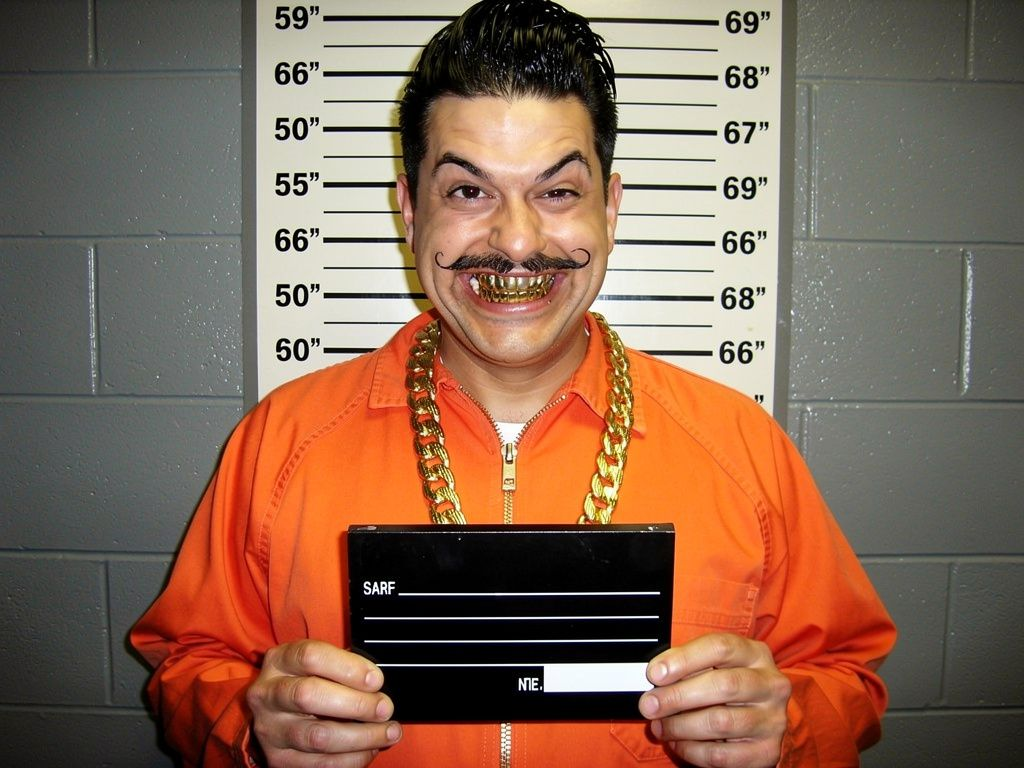
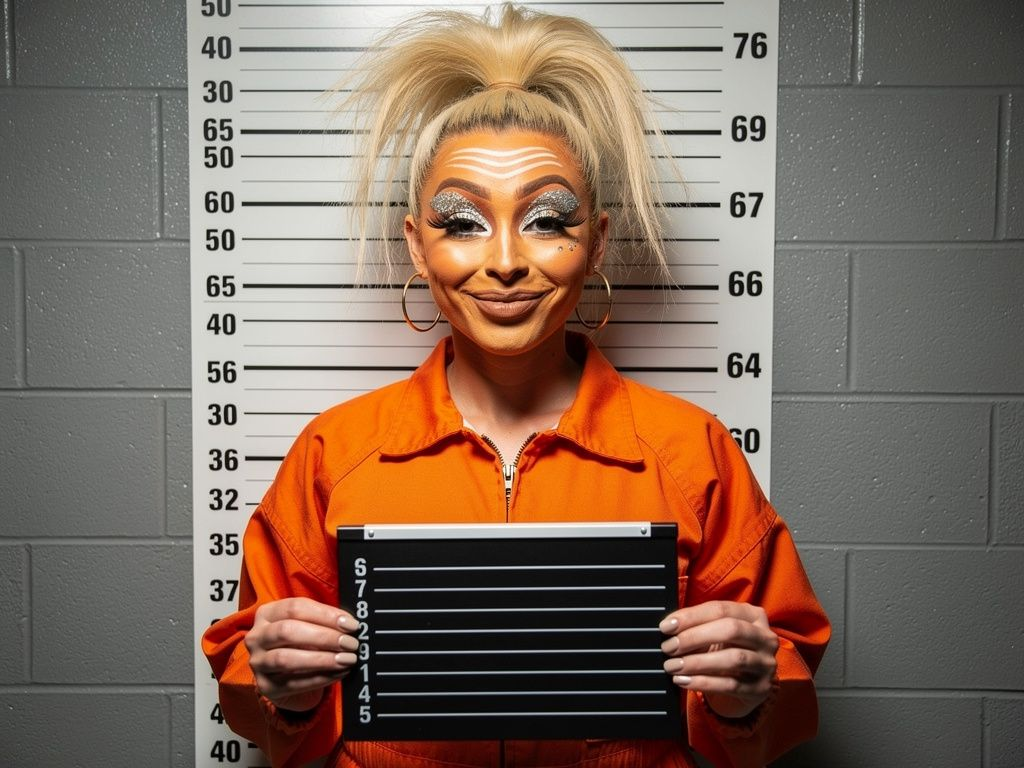
Make mascot lineup all-female and drop photo uploads from generator
Walk of Hoes no longer accepts user photo uploads at all -- it now
shuffles through the AI-generated mascot pool with randomized charges,
so every image on the site is our own AI art, never a real person's
photo. Also swapped the one male mascot for a female one and added two
more, growing the Most Wanted gallery to 7.

Claude-Session: https://claude.ai/code/session_01P1RexwJry31zfTJT4hxdEK

diff --git a/src/components/MugshotGenerator.tsx b/src/components/MugshotGenerator.tsx
@@ -2,6 +2,7 @@
 
 import { useCallback, useEffect, useRef, useState } from "react";
 import { randomCaseNumber, randomCharges } from "@/data/charges";
+import { randomMascot } from "@/data/mascots";
 
 const CANVAS_W = 900;
 const CANVAS_H = 1125;
@@ -34,8 +35,8 @@ function wrapText(
 
 export default function MugshotGenerator() {
   const canvasRef = useRef<HTMLCanvasElement>(null);
-  const fileInputRef = useRef<HTMLInputElement>(null);
   const imgRef = useRef<HTMLImageElement | null>(null);
+  const [mascotSrc, setMascotSrc] = useState<string>(() => randomMascot());
   const [charges, setCharges] = useState<string[]>(() => randomCharges());
   const [caseNumber, setCaseNumber] = useState(() => randomCaseNumber());
   const [ready, setReady] = useState(false);
@@ -60,23 +61,18 @@ export default function MugshotGenerator() {
       const dh = img.height * scale;
       const dx = (CANVAS_W - dw) / 2;
       const dy = (photoH - dh) / 2;
-      ctx.save();
-      ctx.filter = "grayscale(0.35) contrast(1.15) saturate(1.15) brightness(1.05)";
       ctx.drawImage(img, dx, dy, dw, dh);
-      ctx.restore();
 
-      // Flash / duotone tint
-      ctx.fillStyle = "rgba(249, 115, 22, 0.12)";
+      // Flash tint
+      ctx.fillStyle = "rgba(249, 115, 22, 0.08)";
       ctx.fillRect(0, 0, CANVAS_W, photoH);
-      ctx.fillStyle = "rgba(0, 0, 0, 0.15)";
-      ctx.fillRect(0, 0, CANVAS_W, photoH * 0.25);
     } else {
       ctx.fillStyle = "#27272a";
       ctx.fillRect(0, 0, CANVAS_W, photoH);
       ctx.fillStyle = "#52525b";
       ctx.font = "600 28px sans-serif";
       ctx.textAlign = "center";
-      ctx.fillText("Upload a photo to begin", CANVAS_W / 2, photoH / 2);
+      ctx.fillText("Loading mascot...", CANVAS_W / 2, photoH / 2);
     }
 
     // Height-chart ticks
@@ -146,23 +142,22 @@ export default function MugshotGenerator() {
   }, [charges, caseNumber]);
 
   useEffect(() => {
-    draw();
-  }, [draw]);
-
-  const onFile = (file: File | null | undefined) => {
-    if (!file) return;
-    const url = URL.createObjectURL(file);
     const img = new window.Image();
     img.onload = () => {
       imgRef.current = img;
       setReady(true);
       draw();
-      URL.revokeObjectURL(url);
     };
-    img.src = url;
-  };
+    img.src = mascotSrc;
+    // eslint-disable-next-line react-hooks/exhaustive-deps
+  }, [mascotSrc]);
+
+  useEffect(() => {
+    draw();
+  }, [draw]);
 
   const reroll = () => {
+    setMascotSrc((current) => randomMascot(current));
     setCharges(randomCharges());
     setCaseNumber(randomCaseNumber());
   };
@@ -187,26 +182,12 @@ export default function MugshotGenerator() {
         />
       </div>
 
-      <input
-        ref={fileInputRef}
-        type="file"
-        accept="image/*"
-        className="hidden"
-        onChange={(e) => onFile(e.target.files?.[0])}
-      />
-
       <div className="flex flex-wrap items-center justify-center gap-3">
         <button
-          onClick={() => fileInputRef.current?.click()}
+          onClick={reroll}
           className="rounded-full bg-pink-500 px-6 py-3 text-sm font-bold text-black transition hover:bg-pink-400"
         >
-          {ready ? "Use a Different Photo" : "Upload Your Photo"}
-        </button>
-        <button
-          onClick={reroll}
-          className="rounded-full border border-white/15 px-6 py-3 text-sm font-bold text-white transition hover:bg-white/5"
-        >
-          Reroll Charges
+          Get Booked Again
         </button>
         <button
           onClick={download}
@@ -218,10 +199,9 @@ export default function MugshotGenerator() {
       </div>
 
       <p className="max-w-md text-center text-xs text-neutral-500">
-        Everything happens in your browser — your photo is never uploaded or
-        sent anywhere. Only upload photos of yourself, and keep it 18+
-        appropriate. This is a joke generator, not a real legal document
-        (obviously).
+        Every mascot on this site is 100% AI-generated art — no real people,
+        no photo uploads. Generated entirely in your browser. Satire only,
+        18+.
       </p>
     </div>
   );

diff --git a/src/app/walk-of-hoes/page.tsx b/src/app/walk-of-hoes/page.tsx
@@ -5,7 +5,7 @@ import MugshotGenerator from "@/components/MugshotGenerator";
 export const metadata: Metadata = {
   title: "Walk of Hoes — $NOHOES Booking Generator",
   description:
-    "Turn your photo into a satirical $NOHOES booking card. 18+, all in your browser, nothing ever uploaded.",
+    "Generate a satirical $NOHOES booking card from our AI mascot lineup. 18+, all in your browser, no real people, no uploads.",
 };
 
 export default function WalkOfHoes() {
@@ -28,12 +28,12 @@ export default function WalkOfHoes() {
           Walk of Hoes
         </span>
         <h1 className="mt-4 text-3xl font-black tracking-tight sm:text-5xl">
-          Get Yourself Booked
+          Roll the Booking Sheet
         </h1>
         <p className="mx-auto mt-3 max-w-lg text-balance text-neutral-400">
-          Upload a photo and get slapped with degenerate charges,
-          $NOHOES-style. 100% client-side — your photo never leaves your
-          device. 18+, self-uploads only, keep it a joke.
+          Pull a random $NOHOES mascot and slap it with degenerate charges.
+          100% AI-generated art, 100% client-side — no real people, no
+          photo uploads. 18+, keep it a joke.
         </p>
 
         <div className="mt-10">
@@ -44,9 +44,9 @@ export default function WalkOfHoes() {
       <footer className="border-t border-white/10 px-6 py-8">
         <div className="mx-auto flex w-full max-w-5xl flex-col items-center gap-3 text-center text-xs text-neutral-500">
           <p>
-            18+ only. Satirical, self-serve meme generator. Only upload
-            photos of yourself. Nothing is stored, uploaded, or shared by
-            this site.
+            18+ only. Satirical, AI-generated meme generator — no real
+            people, no photo uploads. Nothing is stored or shared by this
+            site.
           </p>
         </div>
       </footer>

diff --git a/src/app/page.tsx b/src/app/page.tsx
@@ -19,6 +19,8 @@ const MOST_WANTED = [
   { src: "/mascots/mascot-3.jpg", charge: "Conspiracy to Pump and Dump" },
   { src: "/mascots/mascot-4.jpg", charge: "Excessive Bag Holding" },
   { src: "/mascots/mascot-5.jpg", charge: "Simping in the First Degree" },
+  { src: "/mascots/mascot-6.jpg", charge: "Disturbing the Charts" },
+  { src: "/mascots/mascot-7.jpg", charge: "Grand Theft of Your Attention" },
 ];
 
 export default function Home() {

diff --git a/src/data/mascots.ts b/src/data/mascots.ts
@@ -1,0 +1,14 @@
+export const MASCOTS = [
+  "/mascot.jpg",
+  "/mascots/mascot-2.jpg",
+  "/mascots/mascot-3.jpg",
+  "/mascots/mascot-4.jpg",
+  "/mascots/mascot-5.jpg",
+  "/mascots/mascot-6.jpg",
+  "/mascots/mascot-7.jpg",
+] as const;
+
+export function randomMascot(exclude?: string): string {
+  const pool = MASCOTS.filter((m) => m !== exclude);
+  return pool[Math.floor(Math.random() * pool.length)] ?? MASCOTS[0];
+}
